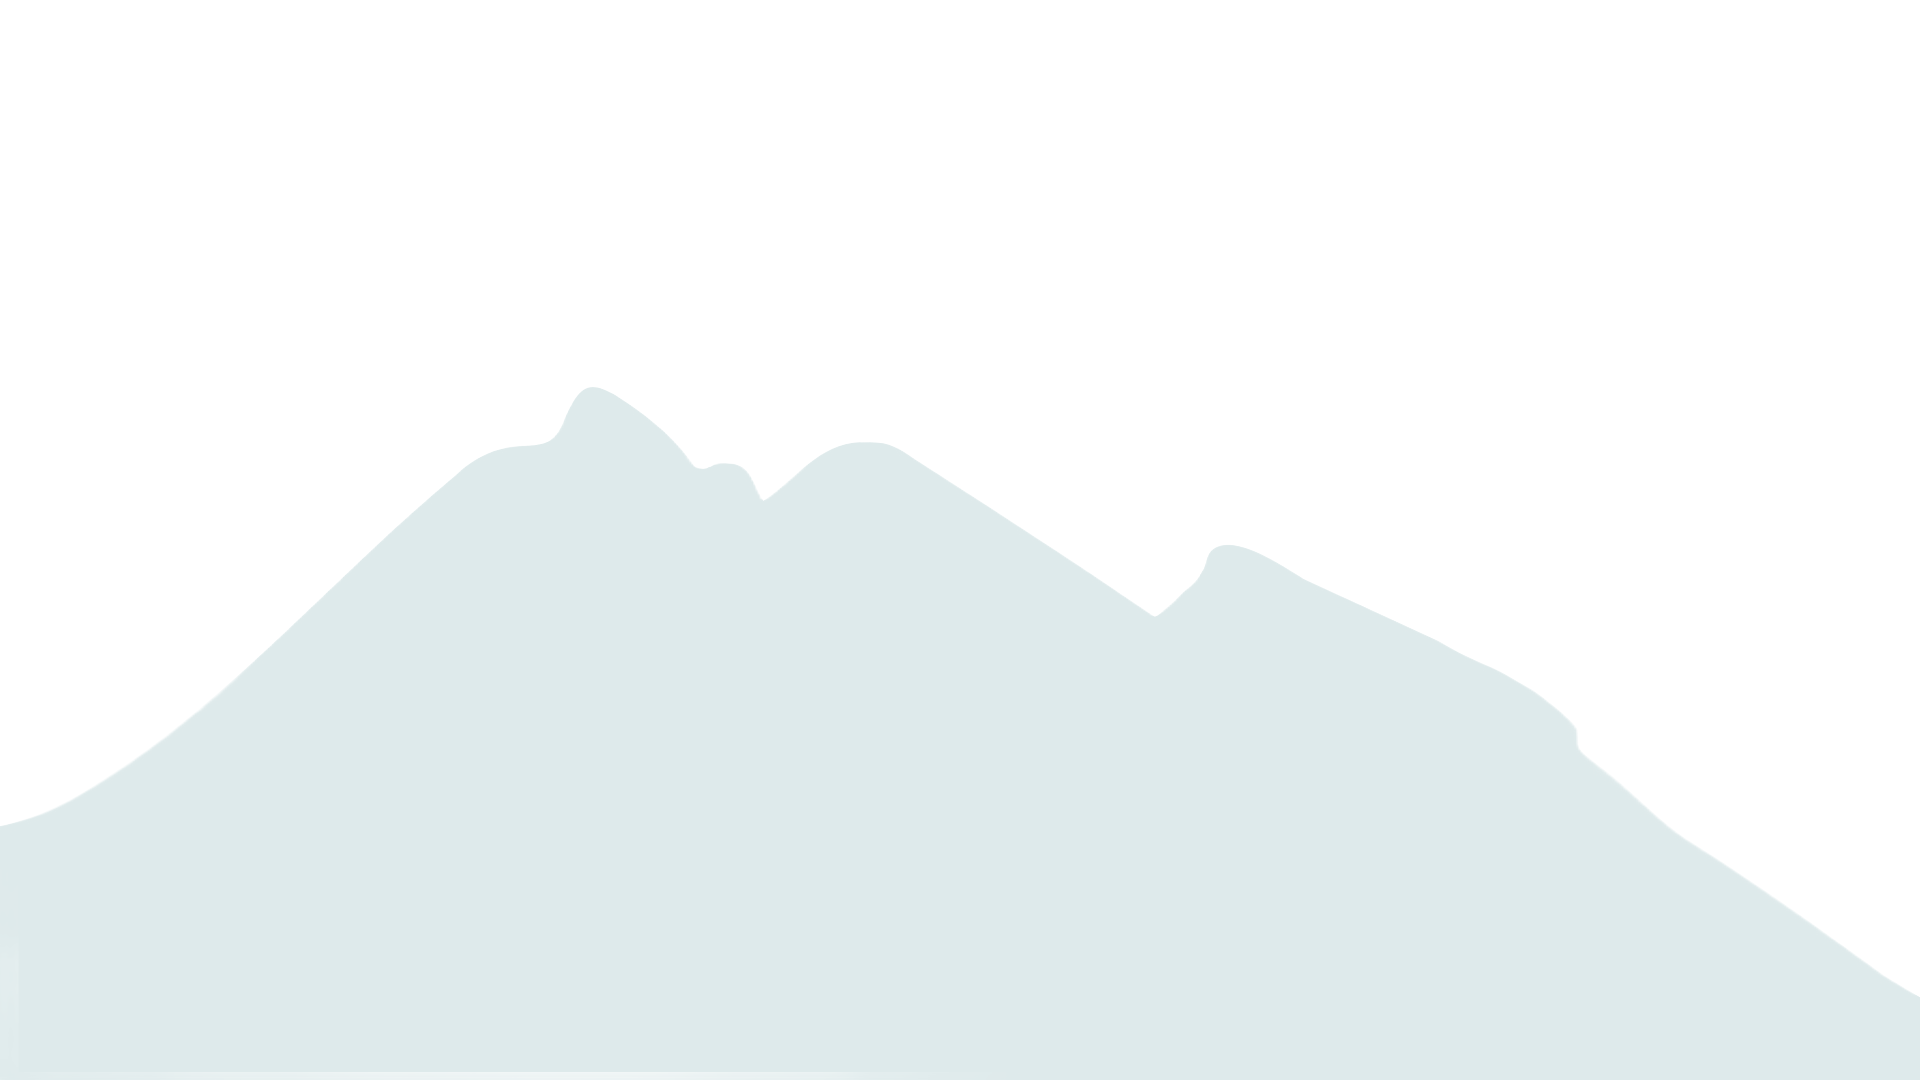
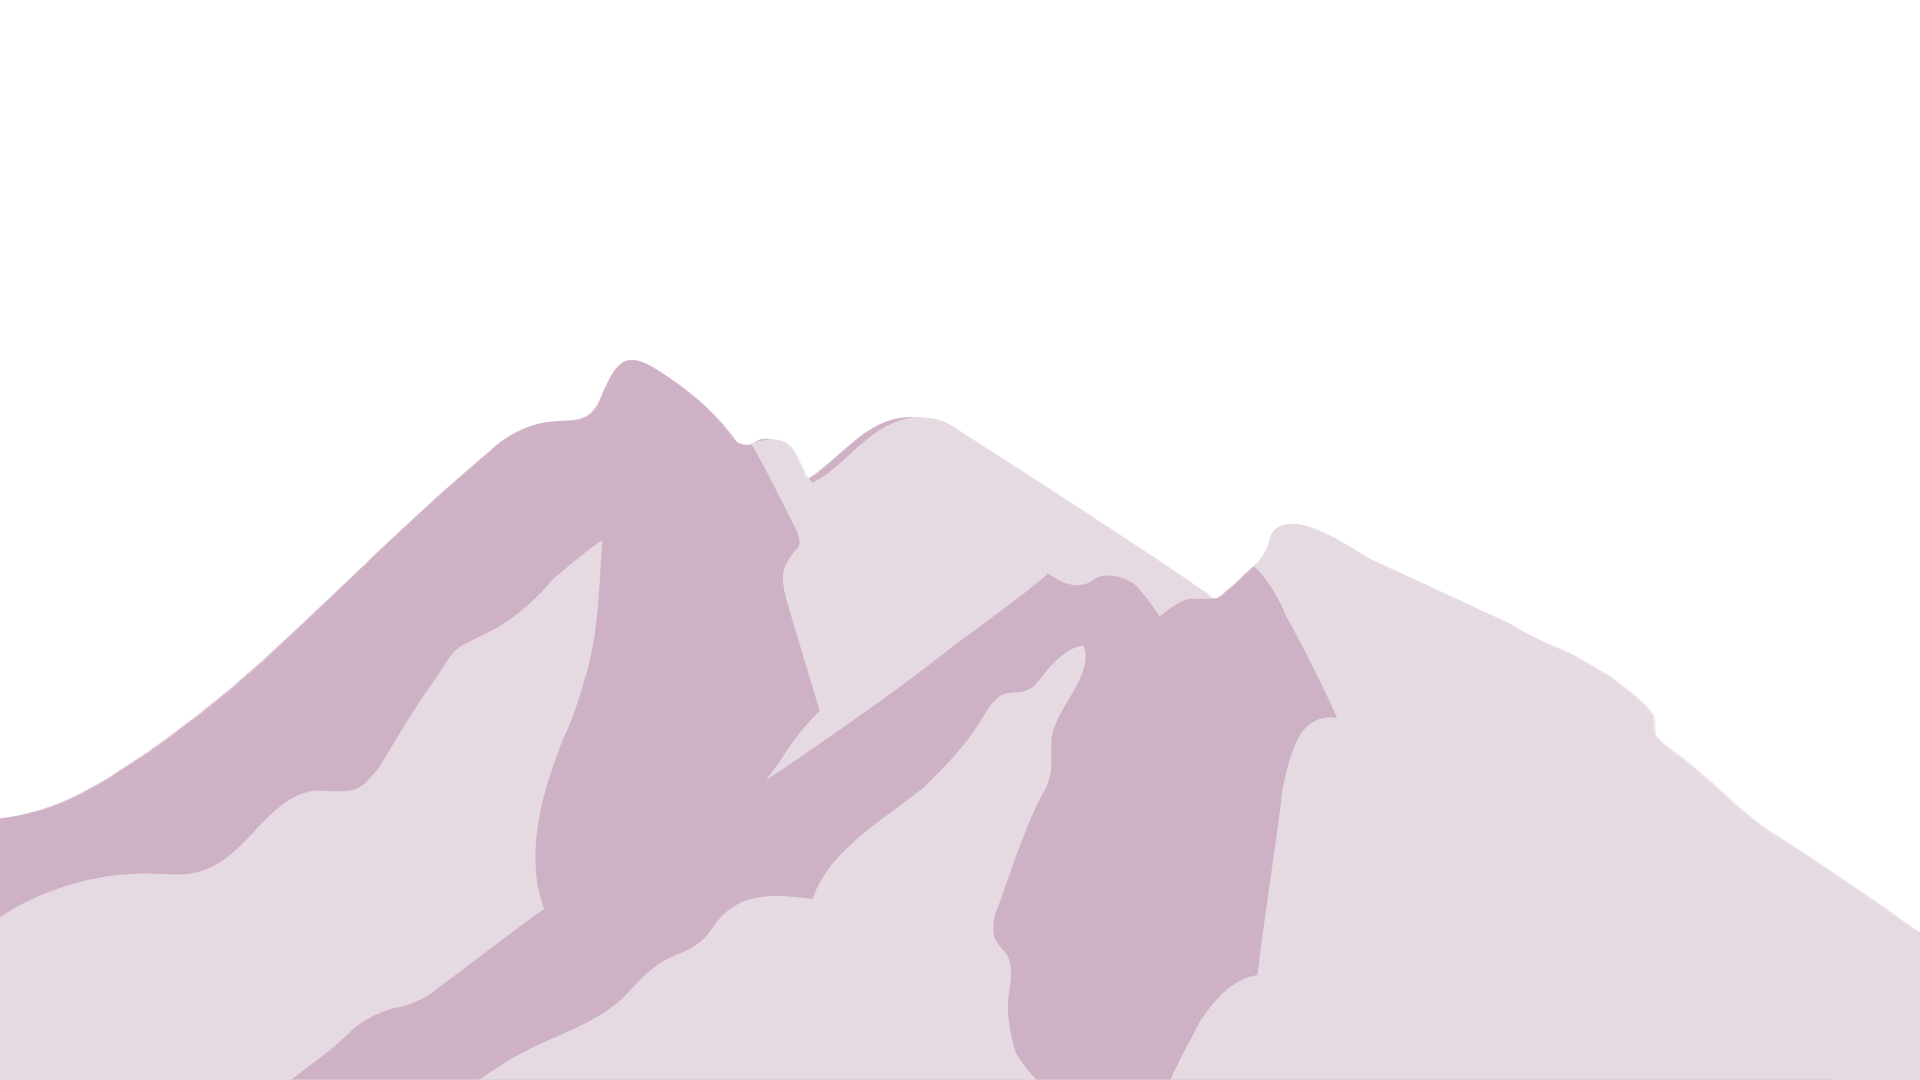
edit color scheme

Changed region(s): [[0.0, 0.3361, 1.0, 1.0]]

diff --git a/dist/main.js b/dist/main.js
@@ -15,7 +15,7 @@
   \**********************/
 /***/ (function() {
 
[2 lines of base64/hex data omitted]
 
 /***/ }),
 

diff --git a/src/styles/HomePage.scss b/src/styles/HomePage.scss
@@ -3,7 +3,7 @@ body {
     font-family: "Poppins", sans-serif;
     padding: 0;
     margin: 0;
-    background-color: rgb(237, 231, 223);
+    background-color: rgb(255, 255, 255);
 }
 
 header {
@@ -20,7 +20,8 @@ header {
 }
 
 .navigation {
-    background-color: rgba(217, 212, 210, 0.317);
+    background-color: rgba(217, 212, 210, 0.2);
+    font-weight: 500;
     padding: 2.5vh;
     border-radius: 30px;
 }
@@ -28,14 +29,14 @@ header {
 .navigation a {
     text-decoration: none;
     border-radius: 20px;
-    color: rgb(125, 181, 167);
+    color: rgb(231, 180, 214);
     margin: 0 1vw;
     padding: 1vh 1vw;
 }
 
 .navigation a:hover,
 .navigation a.active {
-    background-color: rgb(125, 181, 167);
+    background-color: rgb(224, 183, 210);
     border-radius: 20px;
     margin: 0 1vw;
     padding: 1vh 1vw;
@@ -53,12 +54,13 @@ header {
 #text {
     position: absolute;
     font-size: 5em;
-    color:rgb(177, 141, 165);
+    color:rgb(90, 90, 90);
     text-shadow: 2px 2px 4px rgba(88, 88, 88, 0.2);
 }
 
 #mountain1,
-#mountain2 {
+#mountain2,
+#cloud2 {
     position:absolute;
     top: 0;
     left: 0;
@@ -68,7 +70,8 @@ header {
 #mountain3,
 #mountain4,
 #mountain5,
-#bird {
+#bird,
+#cloud1{
     position:absolute;
     top: 0;
     right: 0%;
@@ -89,7 +92,7 @@ header {
 
 .projects > * {
     height: 30vh;
-    background-color: rgb(136, 177, 163);
+    background-color: rgb(229, 208, 216);
     border-radius: 20px;
     margin: 3vh;
     padding: 3vw;

diff --git a/dist/main.css b/dist/main.css
@@ -60,7 +60,7 @@ body {
   font-family: "Poppins", sans-serif;
   padding: 0;
   margin: 0;
-  background-color: rgb(237, 231, 223);
+  background-color: rgb(255, 255, 255);
 }
 
 header {
@@ -77,7 +77,8 @@ header {
 }
 
 .navigation {
-  background-color: rgba(217, 212, 210, 0.317);
+  background-color: rgba(217, 212, 210, 0.2);
+  font-weight: 500;
   padding: 2.5vh;
   border-radius: 30px;
 }
@@ -85,14 +86,14 @@ header {
 .navigation a {
   text-decoration: none;
   border-radius: 20px;
-  color: rgb(125, 181, 167);
+  color: rgb(231, 180, 214);
   margin: 0 1vw;
   padding: 1vh 1vw;
 }
 
 .navigation a:hover,
 .navigation a.active {
-  background-color: rgb(125, 181, 167);
+  background-color: rgb(224, 183, 210);
   border-radius: 20px;
   margin: 0 1vw;
   padding: 1vh 1vw;
@@ -110,12 +111,13 @@ header {
 #text {
   position: absolute;
   font-size: 5em;
-  color: rgb(177, 141, 165);
+  color: rgb(90, 90, 90);
   text-shadow: 2px 2px 4px rgba(88, 88, 88, 0.2);
 }
 
 #mountain1,
-#mountain2 {
+#mountain2,
+#cloud2 {
   position: absolute;
   top: 0;
   left: 0;
@@ -125,7 +127,8 @@ header {
 #mountain3,
 #mountain4,
 #mountain5,
-#bird {
+#bird,
+#cloud1 {
   position: absolute;
   top: 0;
   right: 0%;
@@ -146,7 +149,7 @@ header {
 
 .projects > * {
   height: 30vh;
-  background-color: rgb(136, 177, 163);
+  background-color: rgb(229, 208, 216);
   border-radius: 20px;
   margin: 3vh;
   padding: 3vw;

diff --git a/src/index.js b/src/index.js
@@ -4,6 +4,8 @@ document.addEventListener("DOMContentLoaded", async () => {
     const mountain2 = document.getElementById('mountain2')
     const mountain3 = document.getElementById('mountain3')
     const mountain4 = document.getElementById('mountain4')
+    const cloud1 = document.getElementById('cloud1')
+    const cloud2 = document.getElementById('cloud2')
     const bird = document.getElementById('bird')
 
     window.addEventListener('scroll', ()=> {
@@ -13,7 +15,9 @@ document.addEventListener("DOMContentLoaded", async () => {
         mountain2.style.left = value * -.7 + 'px'
         mountain3.style.left = value * 1 + 'px'
         mountain4.style.left = value * .8 + 'px'
-        bird.style.left = value * 1 + 'px'
+        bird.style.left = value * .5 + 'px'
+        cloud2.style.left = value * -1 + 'px'
+        cloud1.style.left = value * 1 + 'px'
     })
 })
 

diff --git a/index.html b/index.html
@@ -23,13 +23,15 @@
     </header>
 
     <section class="parallax">
-      <img src="assets/bird2.png" id="bird">
       <img src="assets/mountain1.png" id="mountain1">
       <img src="assets/mountain2.png" id="mountain2">
       <div id="text"> Hello. I'm Michelle </div>
       <img src="assets/mountain3.png" id="mountain3">
       <img src="assets/mountain4.png" id="mountain4">
       <img src="assets/mountain5.png" id="mountain5">
+      <img src="assets/cloud1.png" id="cloud1">
+      <img src="assets/cloud2.png" id="cloud2">
+      <img src="assets/bird2.png" id="bird">
     </section>
 
     <section class="projects">
